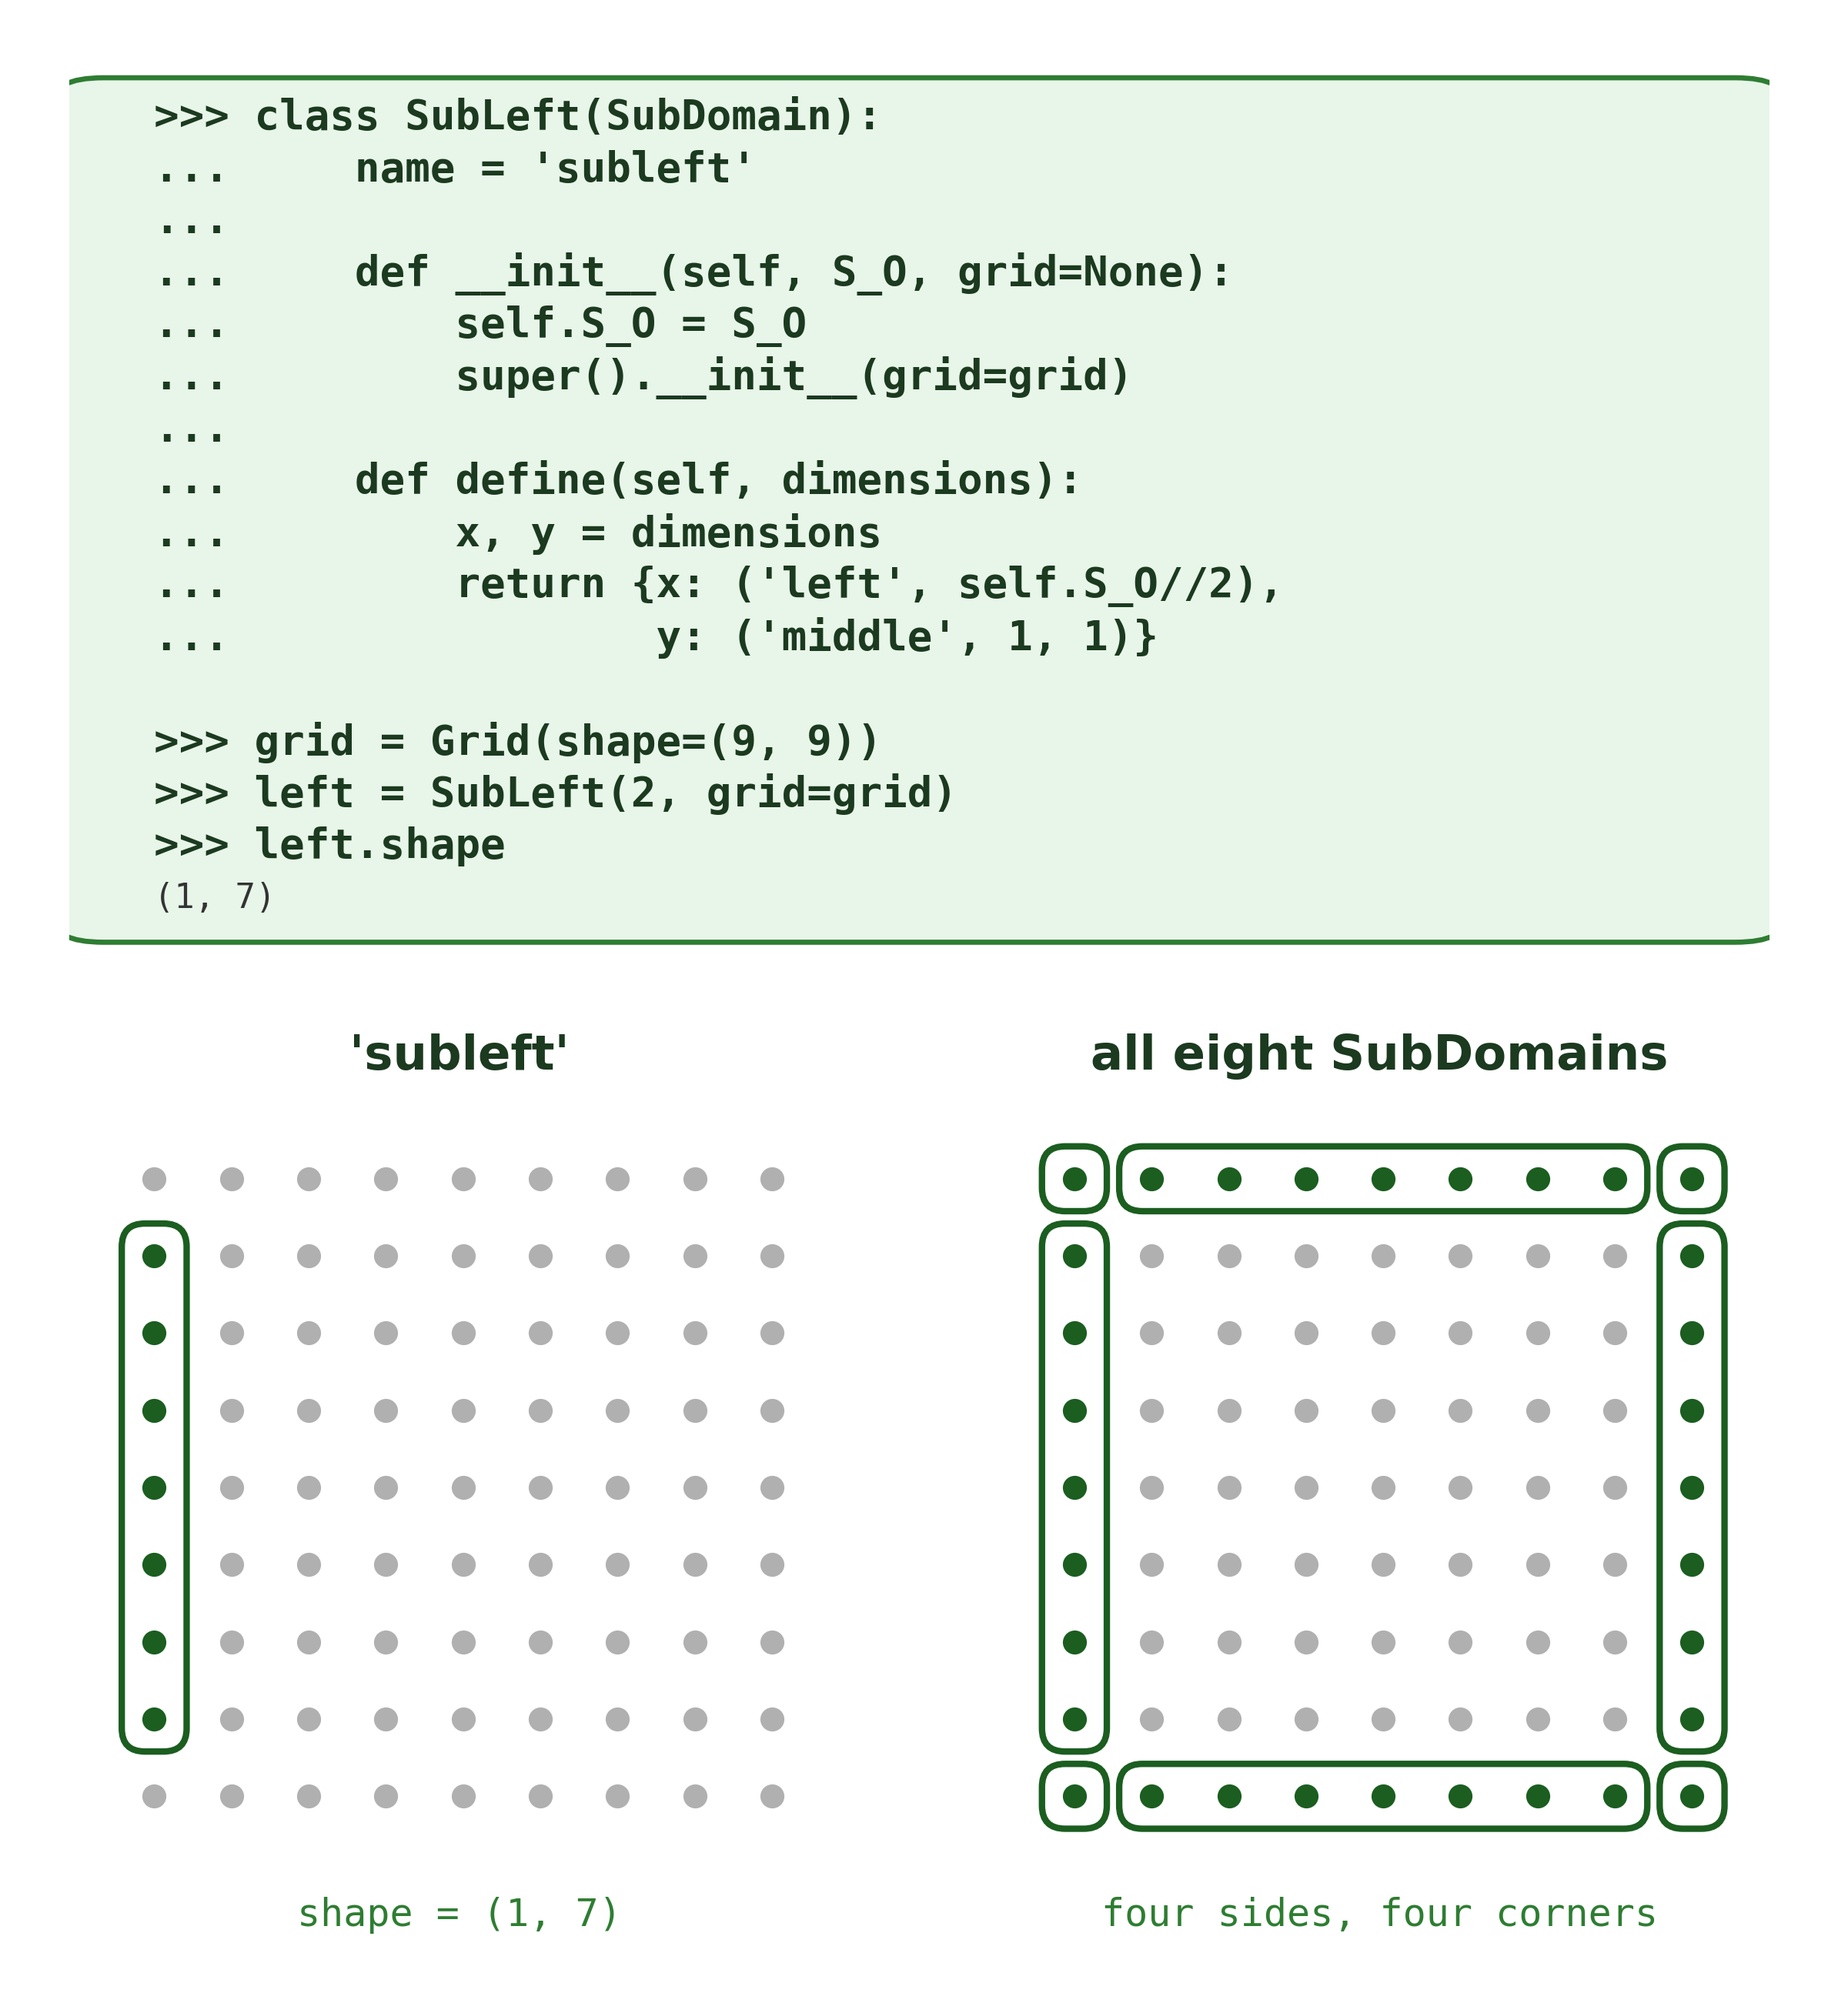
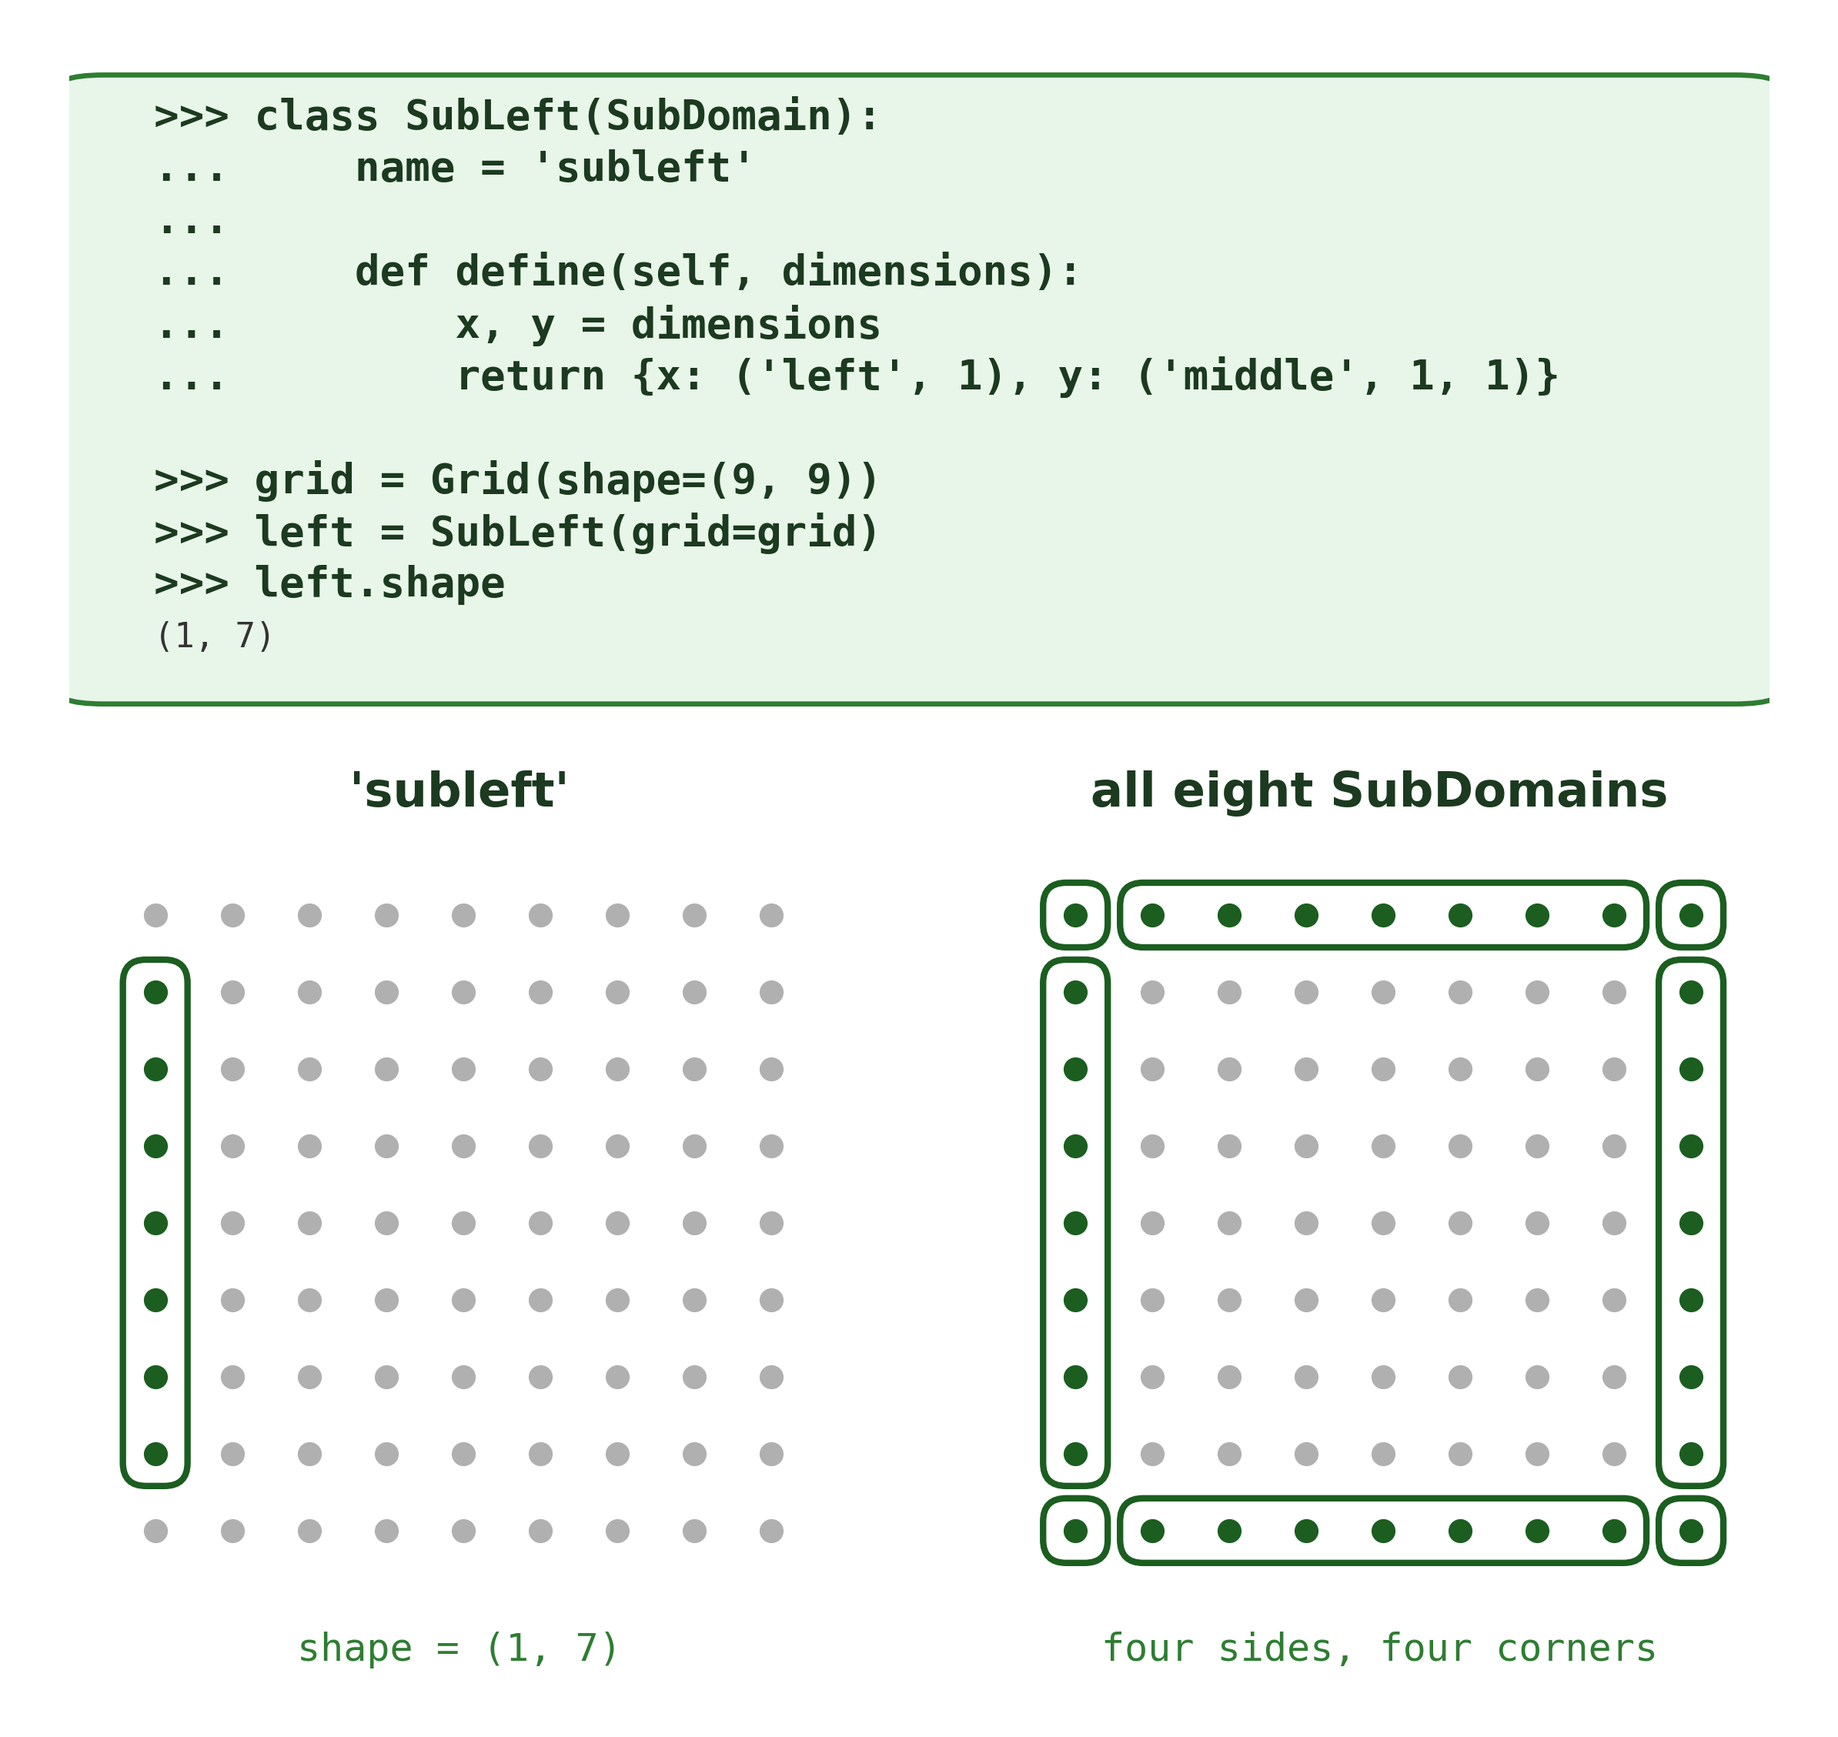
minor edits to helmholtz plots

diff --git a/Chapter3/boundary_conditions/helmholtz_neumann/subdomains_figure.py b/Chapter3/boundary_conditions/helmholtz_neumann/subdomains_figure.py
@@ -12,8 +12,8 @@ DOT_OUT = "#B0B0B0"
 
 N = 9
 
-fig = plt.figure(figsize=(9.5, 10.2))
-gs = fig.add_gridspec(2, 2, height_ratios=[1.75, 1.55], hspace=0.18, wspace=0.18)
+fig = plt.figure(figsize=(9.5, 8.7))
+gs = fig.add_gridspec(2, 2, height_ratios=[1.28, 1.55], hspace=0.18, wspace=0.18)
 
 ax_code = fig.add_subplot(gs[0, :])
 ax_code.set_xlim(0, 1)
@@ -30,21 +30,16 @@ code_lines = [
     (">>> class SubLeft(SubDomain):", TEXT_DARK, "bold", 13),
     ("...     name = 'subleft'", TEXT_DARK, "bold", 13),
     ("...", TEXT_DARK, "bold", 13),
-    ("...     def __init__(self, S_O, grid=None):", TEXT_DARK, "bold", 13),
-    ("...         self.S_O = S_O", TEXT_DARK, "bold", 13),
-    ("...         super().__init__(grid=grid)", TEXT_DARK, "bold", 13),
-    ("...", TEXT_DARK, "bold", 13),
     ("...     def define(self, dimensions):", TEXT_DARK, "bold", 13),
     ("...         x, y = dimensions", TEXT_DARK, "bold", 13),
-    ("...         return {x: ('left', self.S_O//2),", TEXT_DARK, "bold", 13),
-    ("...                 y: ('middle', 1, 1)}", TEXT_DARK, "bold", 13),
+    ("...         return {x: ('left', 1), y: ('middle', 1, 1)}", TEXT_DARK, "bold", 13),
     ("", TEXT_DARK, "normal", 13),
     (">>> grid = Grid(shape=(9, 9))", TEXT_DARK, "bold", 13),
-    (">>> left = SubLeft(2, grid=grid)", TEXT_DARK, "bold", 13),
+    (">>> left = SubLeft(grid=grid)", TEXT_DARK, "bold", 13),
     (">>> left.shape", TEXT_DARK, "bold", 13),
     ("(1, 7)", "#333333", "normal", 10.5),
 ]
-y0, dy = 0.945, 0.0590
+y0, dy = 0.925, 0.081
 for i, (line, color, weight, fontsize) in enumerate(code_lines):
     ax_code.text(0.05, y0 - i * dy, line, ha="left", va="center",
                  fontsize=fontsize, family="monospace", color=color,

diff --git a/Chapter3/boundary_conditions/helmholtz_neumann/2d_modified_helmholtz.py b/Chapter3/boundary_conditions/helmholtz_neumann/2d_modified_helmholtz.py
@@ -334,9 +334,9 @@ ax0.set_title('Devito Solution')
 ax0.set_xlabel('x')
 ax0.set_ylabel('y')
 
-# Analytical solution
+# Exact solution
 c2 = ax1.contourf(X_plot, Y_plot, exact_plot, levels=100, cmap='viridis')
-ax1.set_title('Analytical Solution')
+ax1.set_title('Exact Solution')
 ax1.set_xlabel('x')
 ax1.set_ylabel('y')
 
